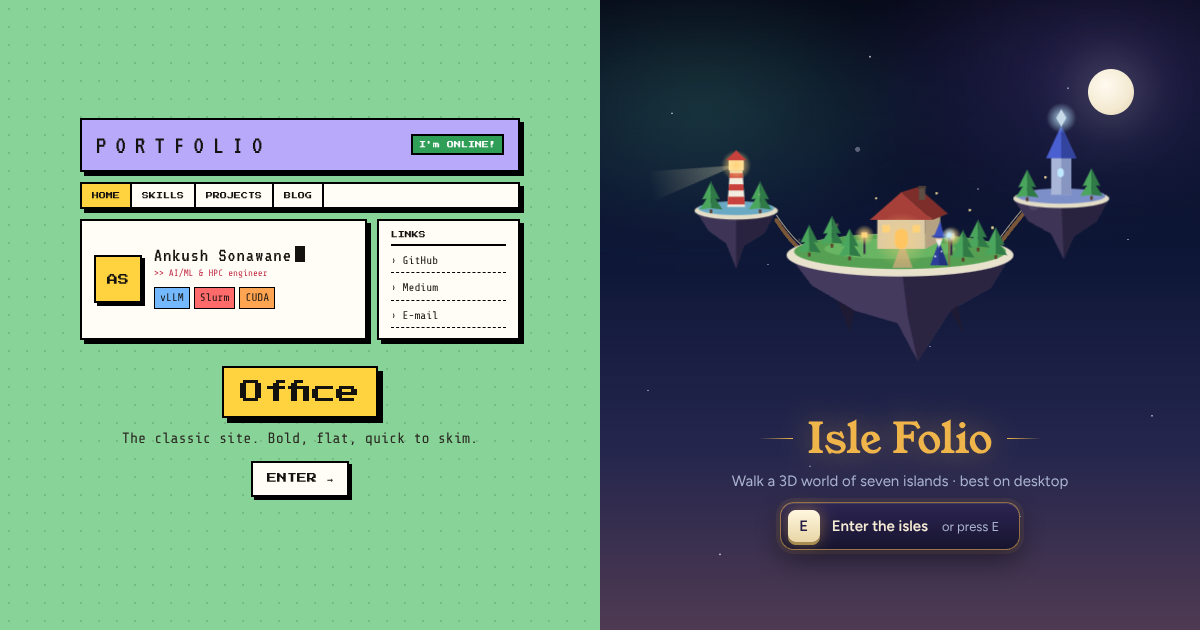
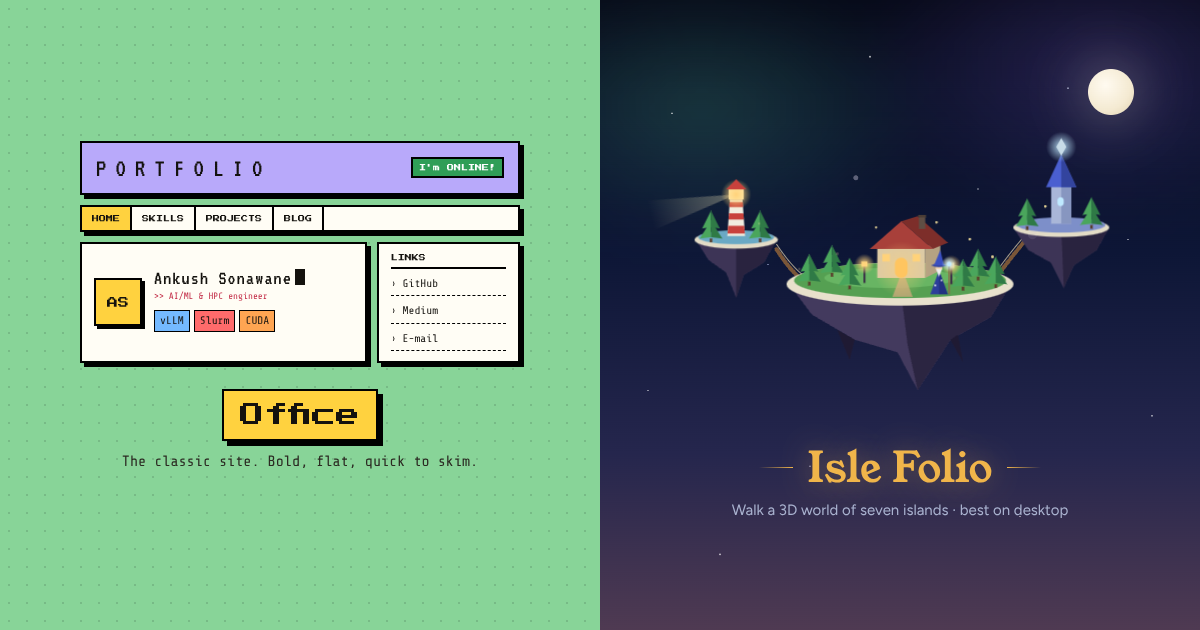
Gateway: drop the Enter buttons; clicking a half enters
Each half was already one link, so the buttons only repeated it. Phones:
halves now stretch to fill the screen (no dark strip at the bottom).
og.png regenerated.

Claude-Session: https://claude.ai/code/session_01RsCNkEyLUGrr5oVvQHitHw

Changed region(s): [[0.0617, 0.181, 0.4625, 0.8143], [0.555, 0.1508, 0.925, 0.6032], [0.6167, 0.6635, 0.8942, 0.8746]]

diff --git a/index.html b/index.html
@@ -31,7 +31,6 @@ body{background:var(--night);font:16px/1.5 Figtree,system-ui,sans-serif;overflow
 .half:hover,.half:focus-visible{flex-grow:1.3}
 .split:hover .half:not(:hover){filter:saturate(.6) brightness(.8)}
 .label{text-align:center;display:flex;flex-direction:column;align-items:center;gap:10px}
-.go{display:inline-block;transition:transform .2s}
 
 /* ---- Office half: static-portfolio's neubrutalist look ---- */
 .office{background:var(--mint) radial-gradient(rgba(0,0,0,.12) 1px,transparent 1.2px) 0 0/18px 18px;color:var(--ink);font-family:'Share Tech Mono',monospace}
@@ -62,8 +61,6 @@ body{background:var(--night);font:16px/1.5 Figtree,system-ui,sans-serif;overflow
 @keyframes blink{50%{opacity:0}}
 .office h2{font:400 clamp(18px,2.2vw,24px) 'Press Start 2P',monospace;background:var(--yellow);border:2.5px solid #000;box-shadow:5px 5px 0 #000;padding:12px 16px}
 .office p{font-size:15px;color:#2b2a22}
-.office .go{font:10px 'Press Start 2P',monospace;background:var(--paper);border:2px solid #000;box-shadow:3px 3px 0 #000;padding:10px 14px}
-.office:hover .go,.office:focus-visible .go{background:var(--coral);transform:translate(2px,2px);box-shadow:1px 1px 0 #000}
 
 /* ---- Isle half: a low-poly scene from Isle Folio's night world ---- */
 .isle{background:linear-gradient(#060918 0%,#0d1636 40%,#25264d 72%,#4f3a52 100%);color:var(--cream)}
@@ -106,21 +103,11 @@ body{background:var(--night);font:16px/1.5 Figtree,system-ui,sans-serif;overflow
 .isle h2::before,.isle h2::after{content:"";width:34px;height:1px;background:linear-gradient(90deg,transparent,var(--ember))}
 .isle h2::after{transform:scaleX(-1)}
 .isle p{font-size:15px;color:var(--haze)}
-.isle .go{display:inline-flex;align-items:center;gap:12px;padding:7px 20px 7px 7px;border-radius:14px;font:600 15px Figtree,sans-serif;color:var(--cream);
-  background:linear-gradient(#2c2552,#17142f);border:1px solid rgba(240,181,74,.55);
-  box-shadow:0 0 0 4px rgba(240,181,74,.07),0 10px 28px rgba(0,0,0,.45),inset 0 1px 0 rgba(255,255,255,.1);
-  transition:box-shadow .3s,transform .2s}
-.isle .go kbd{display:grid;place-items:center;width:32px;height:32px;border-radius:8px;font:700 15px Figtree,sans-serif;color:#231d45;
-  background:linear-gradient(#fff7df,#e8d6a6);box-shadow:0 3px 0 #a88c52,0 0 16px rgba(240,181,74,.45);transition:transform .15s,box-shadow .15s}
-.isle .go small{font-weight:400;font-size:13px;color:var(--haze);margin-left:2px}
-.isle:hover .go,.isle:focus-visible .go{transform:translateY(-2px);box-shadow:0 0 0 4px rgba(240,181,74,.16),0 0 34px rgba(240,181,74,.35),0 12px 30px rgba(0,0,0,.45),inset 0 1px 0 rgba(255,255,255,.12)}
-.isle:hover .go kbd,.isle:focus-visible .go kbd{transform:translateY(2px);box-shadow:0 1px 0 #a88c52,0 0 22px rgba(240,181,74,.7)}
-@media (hover:none){.isle .go small{display:none}}
 .note{color:var(--ember);font-size:14px;max-width:34ch}
 
 @media (max-width:760px){
   .split{flex-direction:column}
-  .half{flex:none;padding:48px 20px;gap:20px}
+  .half{flex:1 0 auto;padding:48px 20px;gap:20px}
   .half:hover,.half:focus-visible{flex-grow:1}
   .split:hover .half:not(:hover){filter:none}
   .moon{top:22px;right:22px;width:34px;height:34px}
@@ -146,7 +133,6 @@ body{background:var(--night);font:16px/1.5 Figtree,system-ui,sans-serif;overflow
     <div class="label">
       <h2>Office</h2>
       <p>The classic site. Bold, flat, quick to skim.</p>
-      <span class="go">ENTER →</span>
     </div>
   </a>
 
@@ -234,7 +220,6 @@ body{background:var(--night);font:16px/1.5 Figtree,system-ui,sans-serif;overflow
     <div class="label">
       <h2>Isle Folio</h2>
       <p>Walk a 3D world of seven islands · best on desktop</p>
-      <span class="go"><kbd>E</kbd>Enter the isles<small>or press E</small></span>
       <p class="note" id="nogl" hidden>Your browser can't run 3D, so this opens as plain text. Office is the better pick here.</p>
     </div>
   </a>
